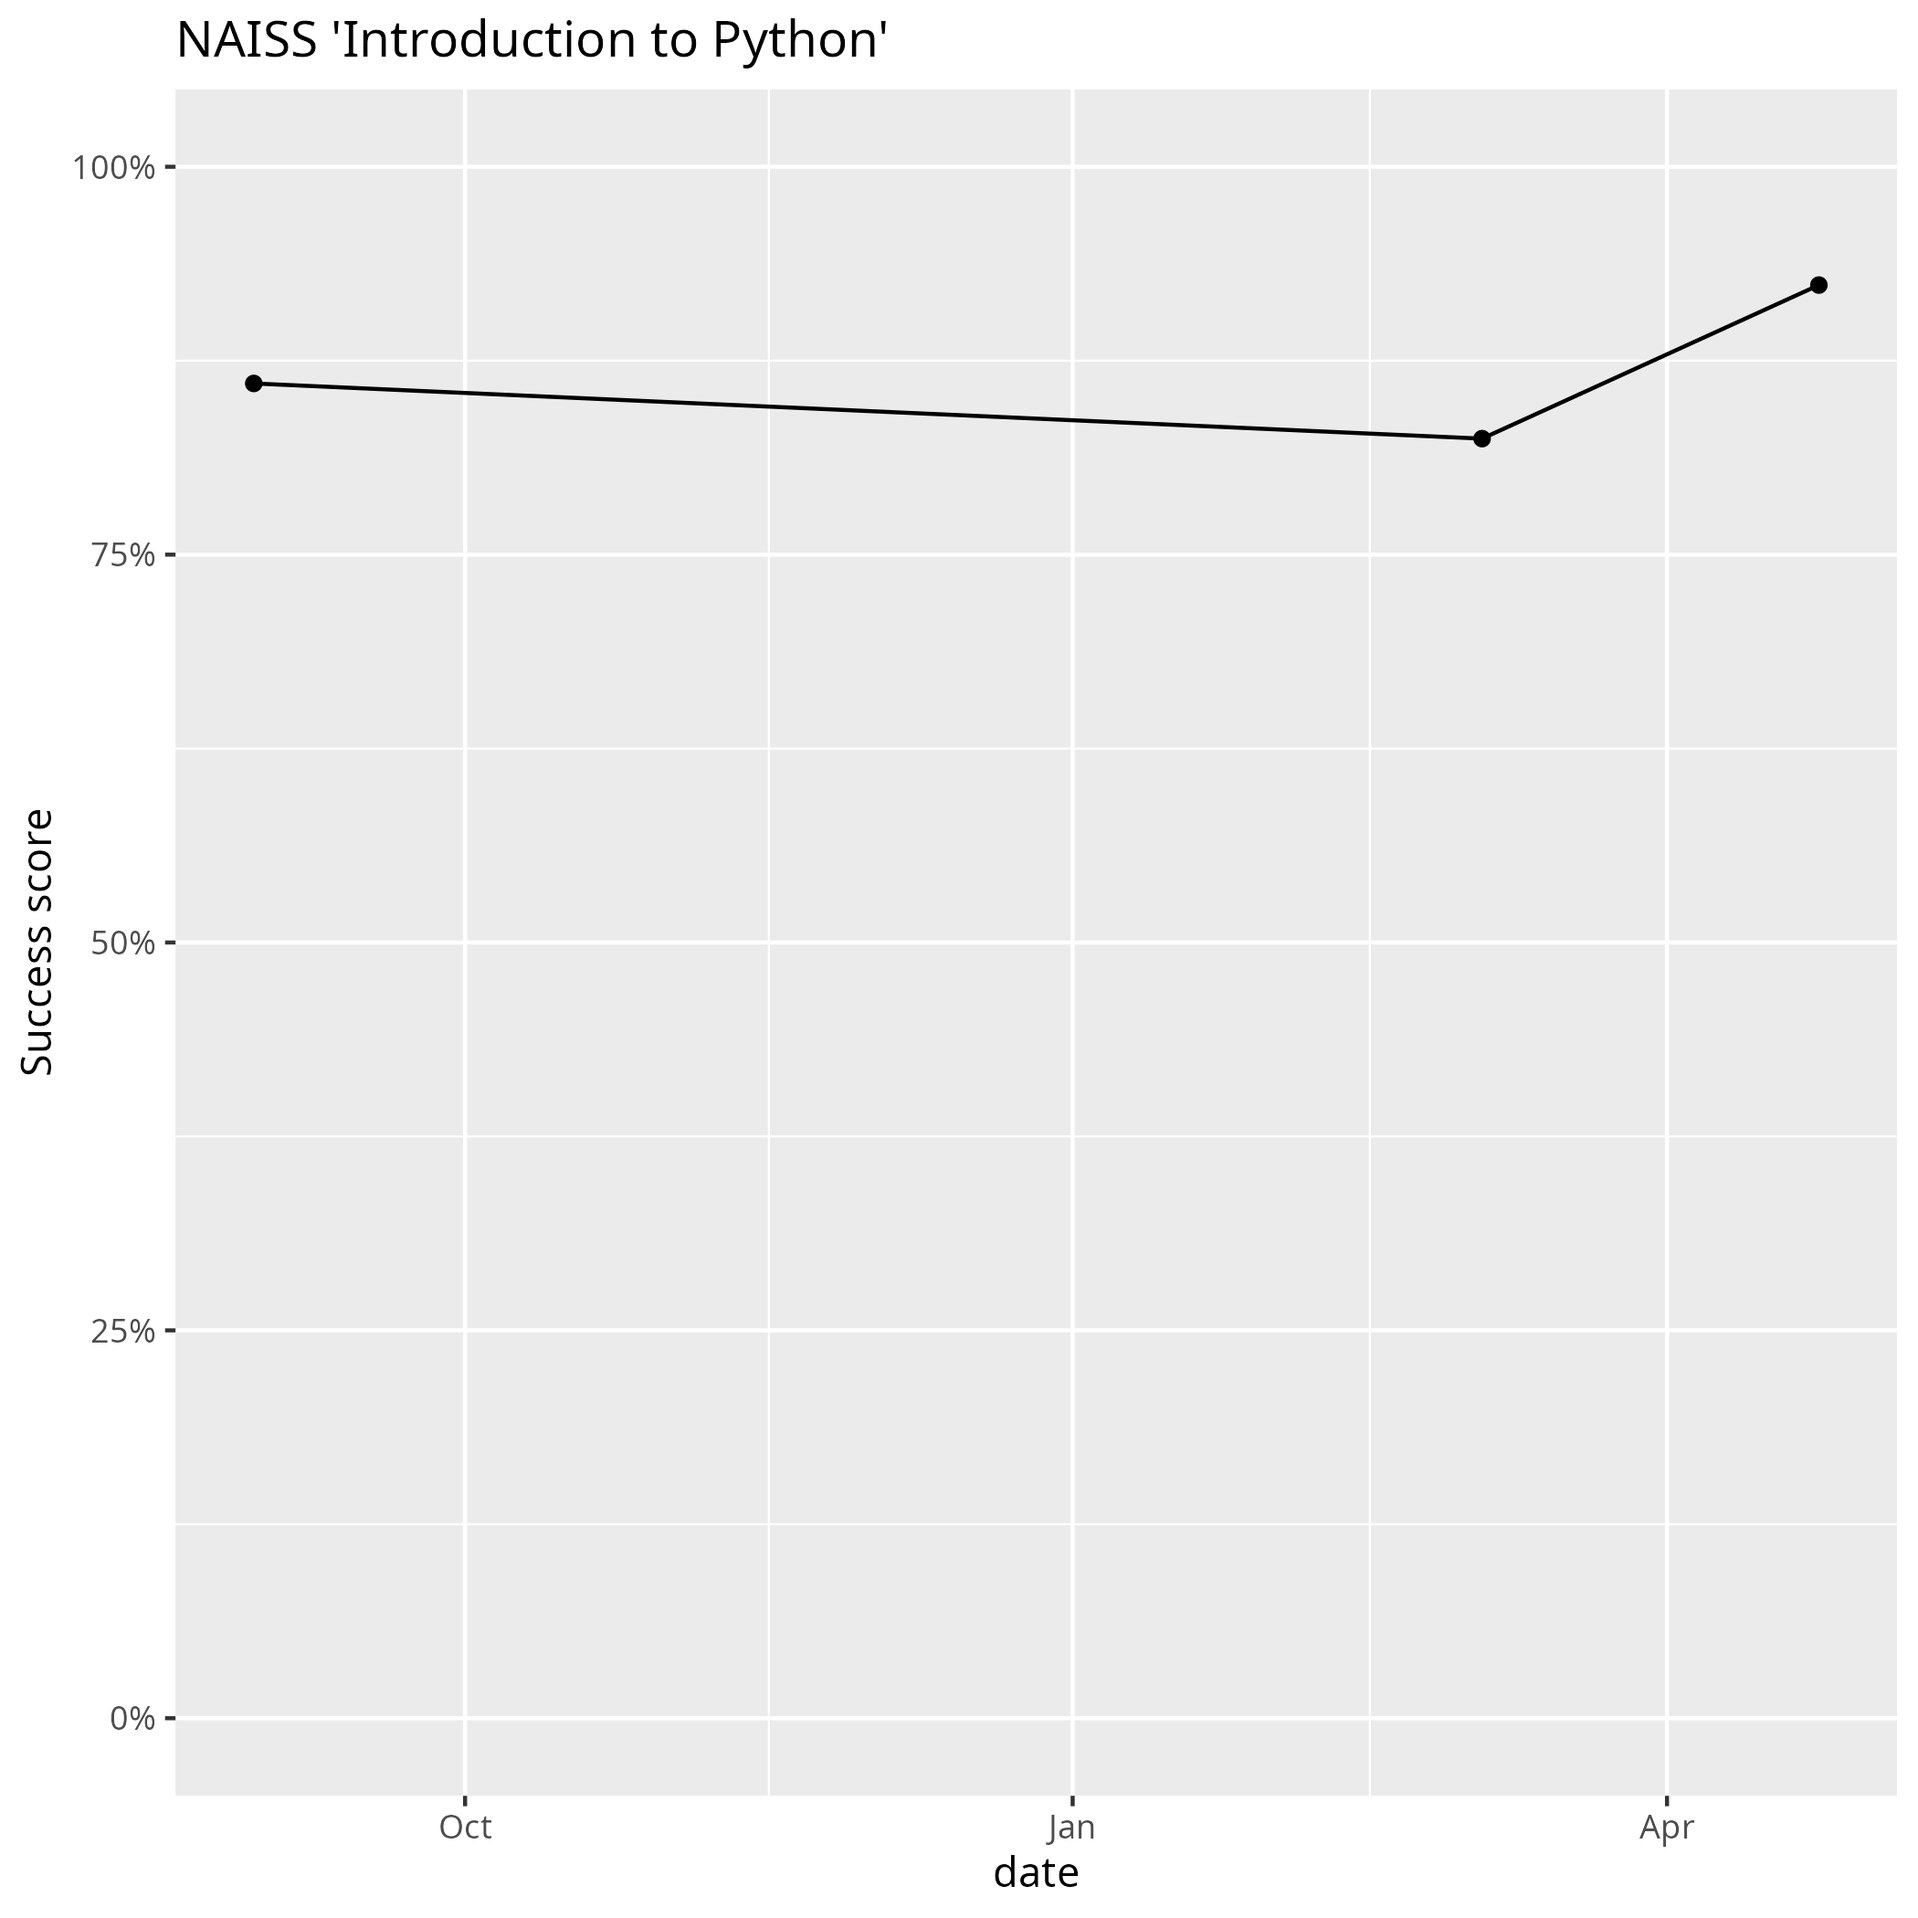
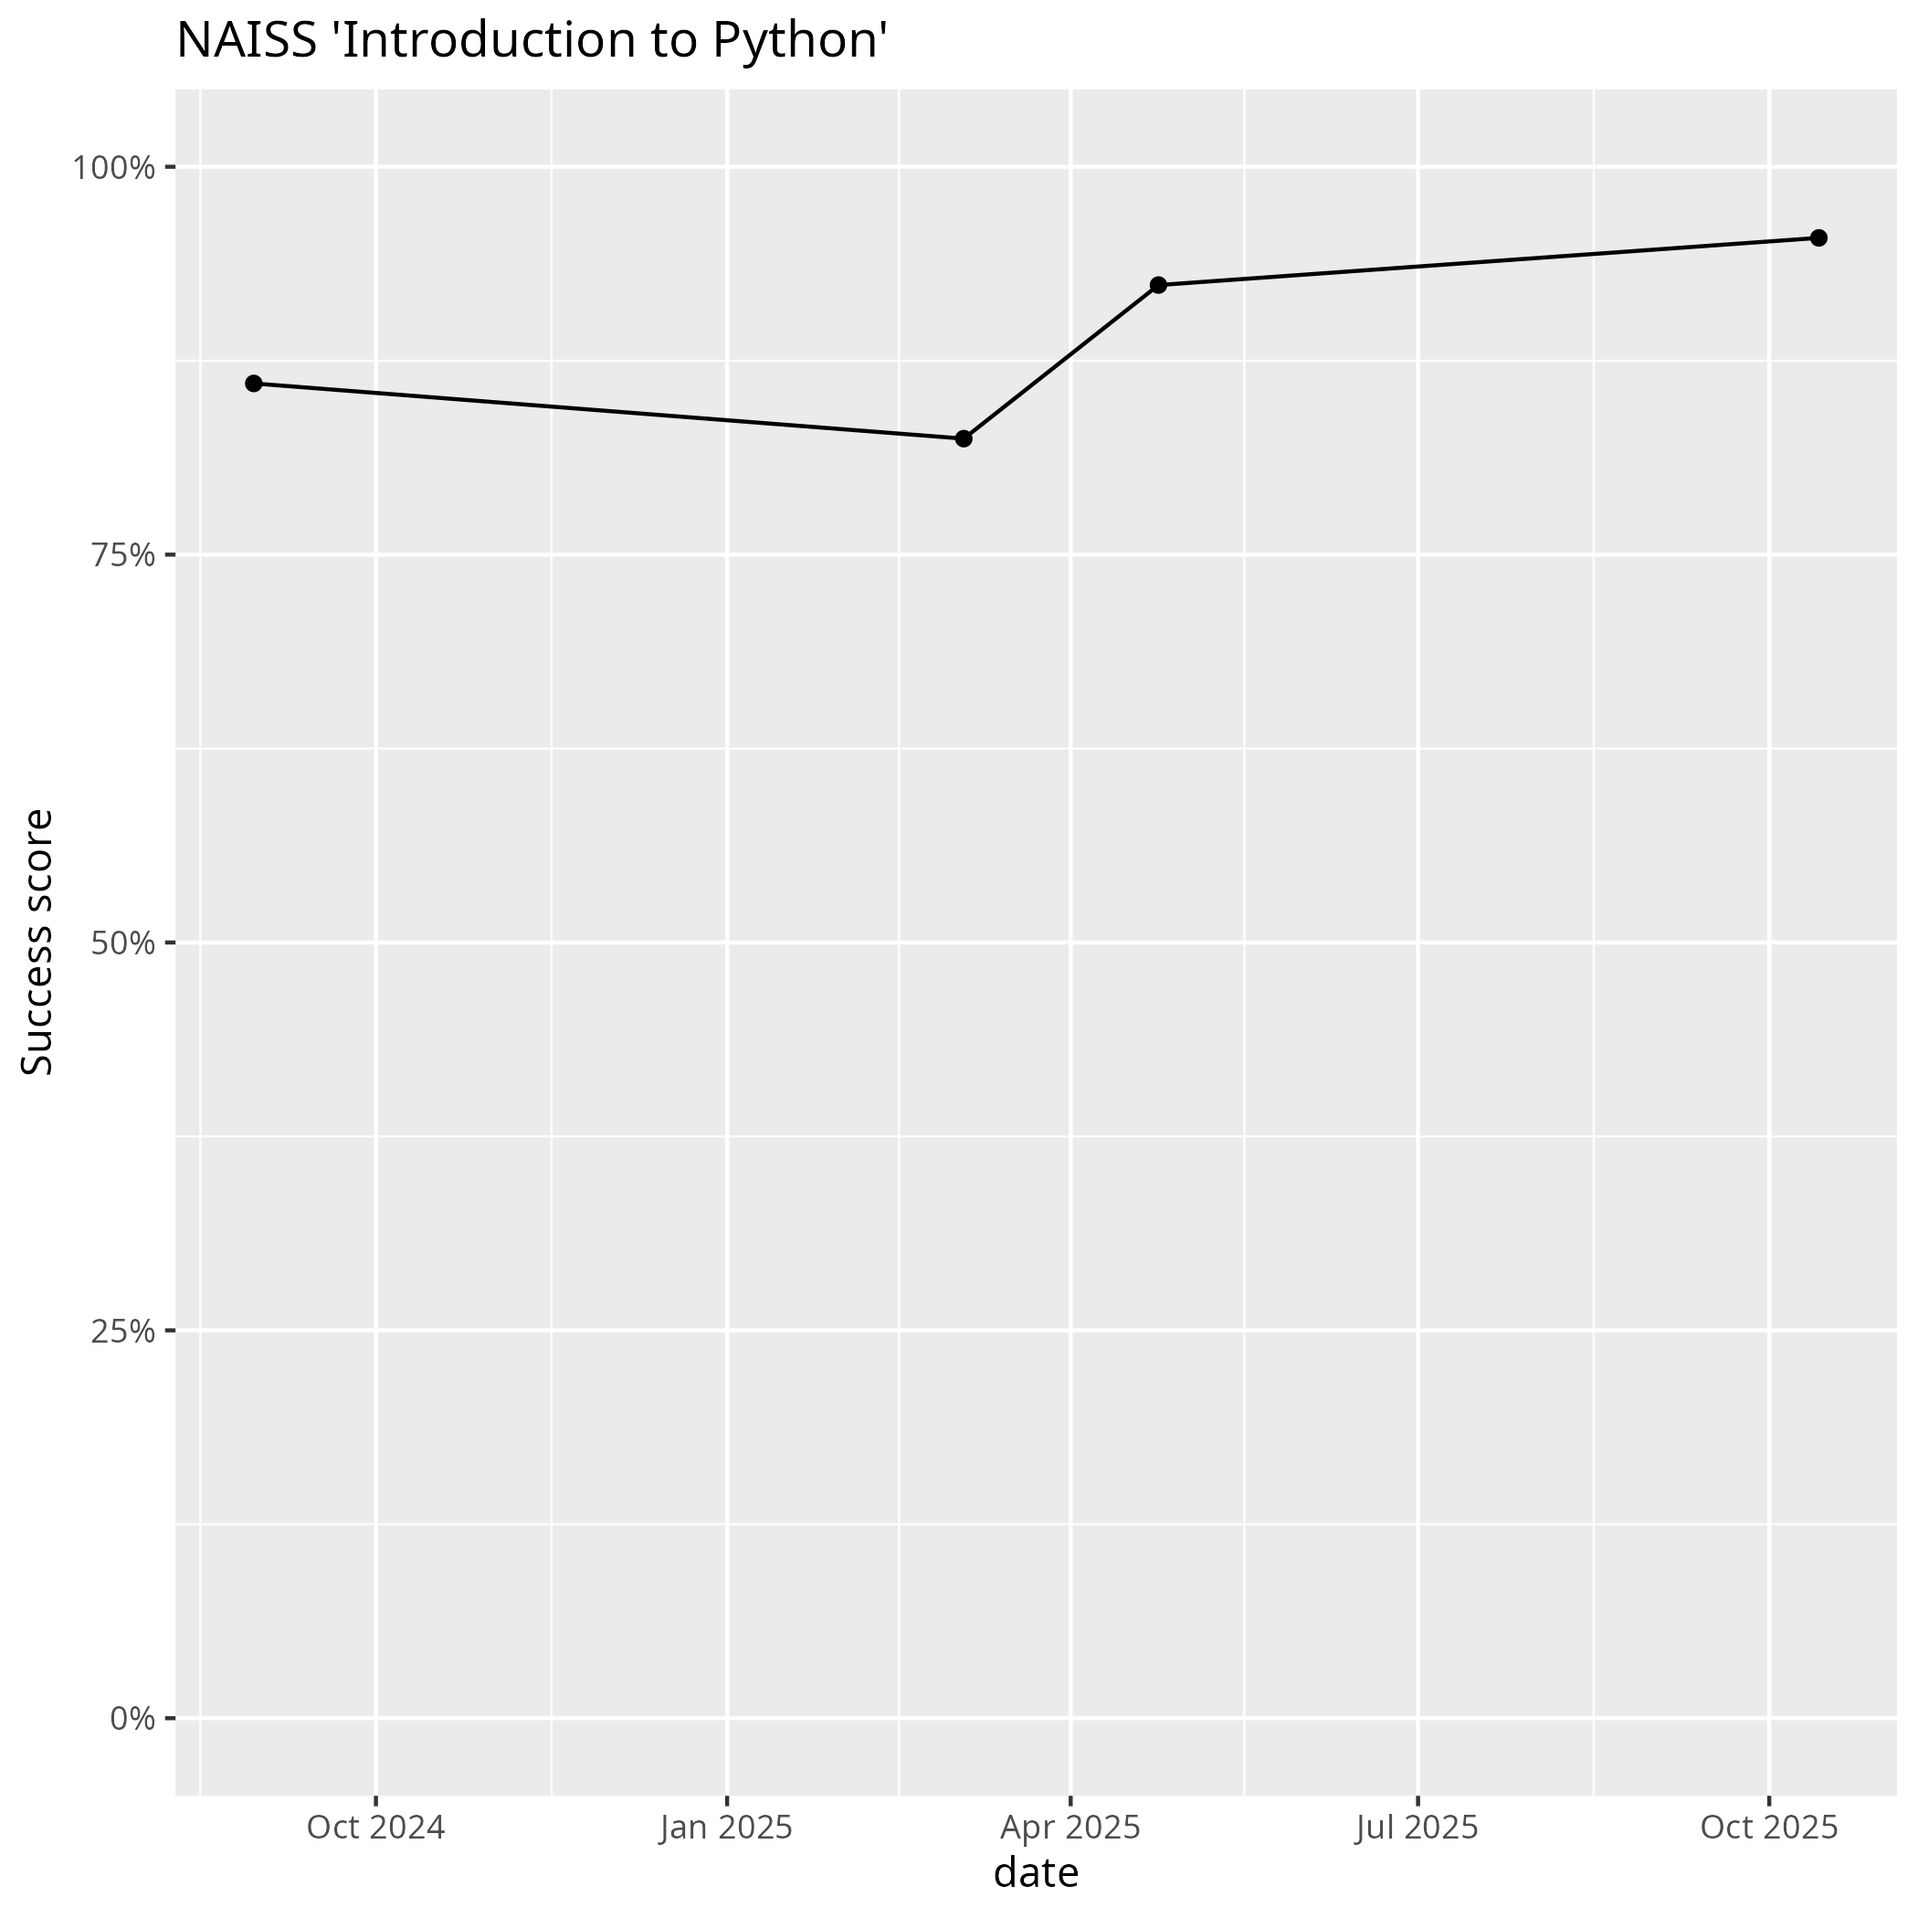
Plot success score

diff --git a/docs/evaluations/20251014/README.md b/docs/evaluations/20251014/README.md
@@ -14,22 +14,39 @@
 - [survey_start.csv](survey_start.csv)
 - [survey_end.csv](survey_end.csv)
 - [survey_end_text_question.txt](survey_end_text_question.txt)
-- [success_score.txt](success_score.txt): 
-
+- [success_score.txt](success_score.txt): 95%
 ## Feedback
 
 From [anonymous_feedback.txt](anonymous_feedback.txt):
 
 - Very well designed and beginner friendly training!
-- A very nice basic Python course for beginners who want to start using Python on HPC. The course website is very informative and tidy. Thanks a lot!
+- A very nice basic Python course for beginners
+  who want to start using Python on HPC.
+  The course website is very informative and tidy. Thanks a lot!
 
 From [survey_end.csv](survey_end.csv):
 
-- On the whole I feel the course was good, just not on the right level for me. However, the materials for the 4-day course (https://uppmax.github.io/HPC-python/index.html) led me to some more advanced stuff: automatic code optimization with Numba, and indirectly to automatic parallelization with DECO.
+- On the whole I feel the course was good, just not on the right level for me.
+  However, the materials for the 4-day course
+  (https://uppmax.github.io/HPC-python/index.html)
+  led me to some more advanced stuff: automatic code optimization with Numba,
+  and indirectly to automatic parallelization with DECO.
 - Very nice course for the Python beginner!
 - Great course, beginner-friendly!
-- Overall, it was a good course for complete beginners. However, it would have been nicer to have more discussion and less independent reading. Much of the material from the Python book could have been replaced by direct (faster) explanations from the instructor, followed by group discussions and more strictly collaborative exercises. This approach would likely have led to faster and more effective learning.
-- Since there are already plenty of Python tutorials available online, a course like this should focus on being more interactive rather than being a space where to work independently through existing materials. I also would have appreciated covering some more essential yet slightly advanced topics—such as functions, available python packages, and similar concepts—instead of spending as much time on very basic material, like simple arithmetic with operators.
+- Overall, it was a good course for complete beginners.
+  However, it would have been nicer to have more discussion
+  and less independent reading.
+  Much of the material from the Python book could have been replaced
+  by direct (faster) explanations from the instructor,
+  followed by group discussions and more strictly collaborative exercises.
+  This approach would likely have led to faster and more effective learning.
+- Since there are already plenty of Python tutorials available online,
+  a course like this should focus on being more interactive rather
+  than being a space where to work independently through existing materials.
+  I also would have appreciated covering some more essential
+  yet slightly advanced topics—such as functions, available python packages,
+  and similar concepts—instead of spending as much time on very basic material,
+  like simple arithmetic with operators.
 
 ## Analysis, only end
 

diff --git a/docs/evaluations/README.md b/docs/evaluations/README.md
@@ -17,7 +17,7 @@ No |Date      |Evaluations                     |Success score
 2  |2024-08-30|[Evaluation](20240830/README.md)|[86%](20240830/success_score.txt)
 3  |2025-03-04|[Evaluation](20250304/README.md)|[82%](20250304/success_score.txt)
 4  |2025-04-24|[Evaluation](20250424/README.md)|[92%](20250424/success_score.txt)
-5  |2025-10-14|[Evaluation](20251014/README.md)|.
+5  |2025-10-14|[Evaluation](20251014/README.md)|[95%](20251014/success_score.txt)
 6  |2025-11-27|[Evaluation](20251127/README.md)|.
 
 - The 'Success score' is the average confidence the learners
